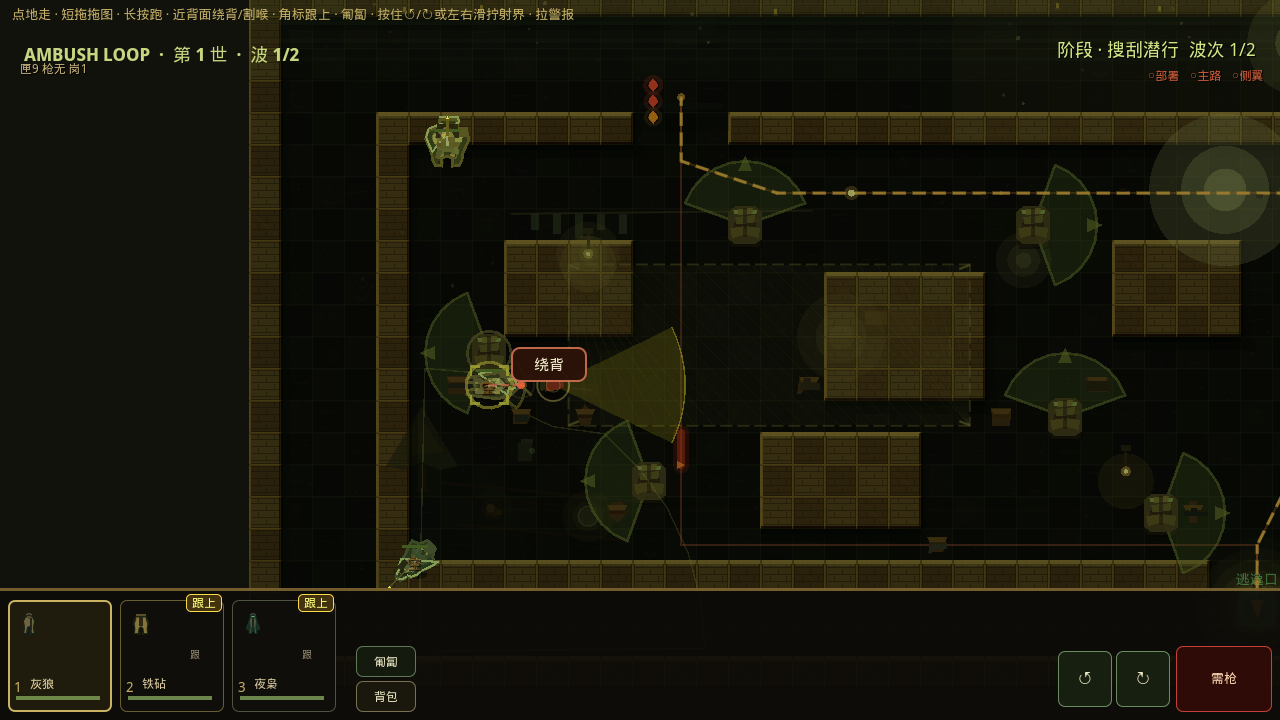
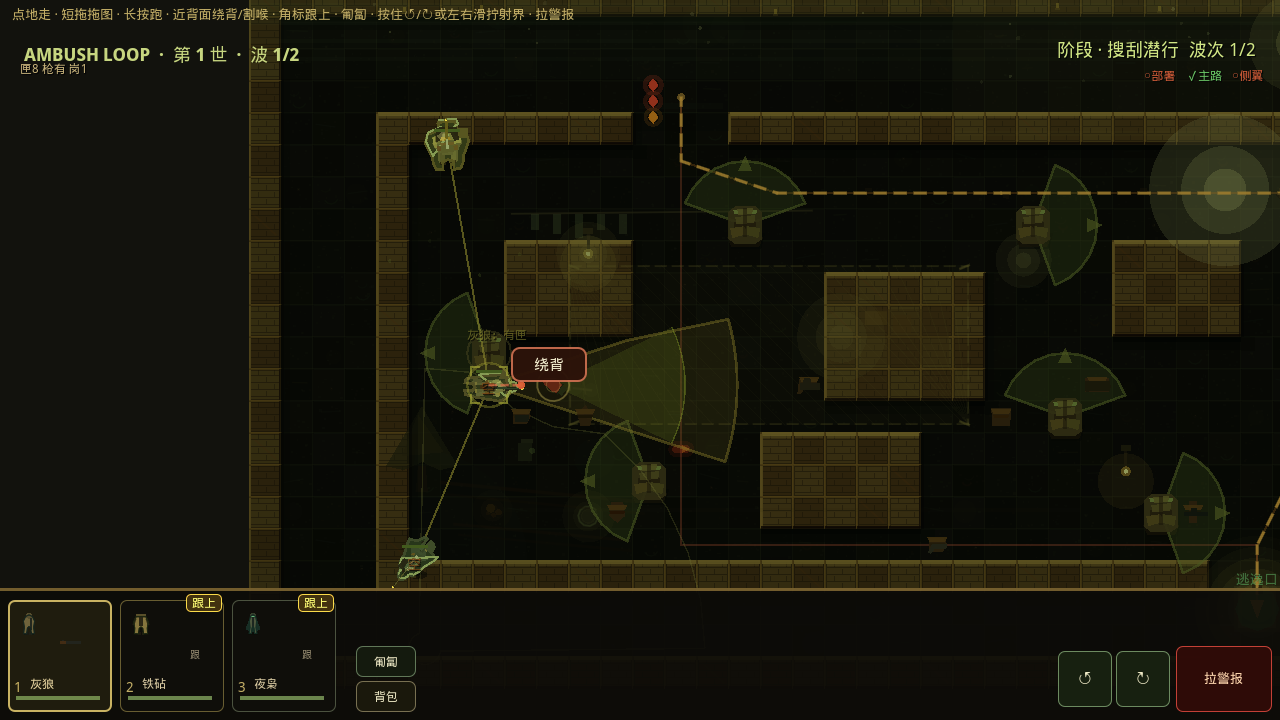
feat(engine): v0.5.41 west trio file tape, dest span 6 kept
Gold file through lead + dests so the west squad reads as one file at
1.0 zoom. Dest cells stay (7,12)/(6,6)/(5,16). No postage stamp.

Review: eval_touch_ux/08_west_combo_follow.png — tape links north
follower, lead, south follower. SMOKE_OK_WEST_FILE_0541 pts=3 len=434.5.

diff --git a/ambush_loop/docs/TOUCH_UX_OPTIONS.md b/ambush_loop/docs/TOUCH_UX_OPTIONS.md
@@ -1,6 +1,6 @@
 # Ambush Loop — 触控 UX 方案（制作人清单）
 
-版本：v0.5.40 已落地 观察环填色 LOS 裁切+淡化（1.0 人影/环，不改 kit_range）西巷落点(6,6)/(5,16) span 6 西巷跟上绕路≤6+跟镜头~1.0 平移/裁切（不把院子缩成邮票；#1 沿队形拉开、#2 不推南墙、不贴西墙）人影/观察环 1.0 / 观察环院内错开收小（不把 280px 环再推 154px 进院子） / 南走廊整段 y≤13（含中段 x≈21） / 松手留环+双向拧+西巷三人+黄锥强制触控 · 2026-09-18  
+版本：v0.5.41 已落地 西巷队形线（span 6 落点不改）观察环填色 LOS 裁切+淡化（1.0 人影/环，不改 kit_range）西巷落点(6,6)/(5,16) span 6 西巷跟上绕路≤6+跟镜头~1.0 平移/裁切（不把院子缩成邮票；#1 沿队形拉开、#2 不推南墙、不贴西墙）人影/观察环 1.0 / 观察环院内错开收小（不把 280px 环再推 154px 进院子） / 南走廊整段 y≤13（含中段 x≈21） / 松手留环+双向拧+西巷三人+黄锥强制触控 · 2026-09-18  
 对象：分支 `cursor/commandos-ambush-0641`，玩法停在 Commandos 2 kit（肖像 / C·Q·W·Z / 岗哨黄锥 / 6 格背包 / 自动手雷）。  
 P0 已进 `0.5.1`：SETUP 常驻 匍匐/背包/需枪，情境热区，肖像钉回拇指带，ALERT 3 键。  
 P0.5 已进 `0.5.2`：北墙芯片折进标题带；靠近背面出绕背热区+虚线；短拖拖图 / 长按奔跑；肖像「跟」。本文件仍是方案对照，不改 RAID 契约。`SCOUT → ALERT → SWEEP`、警报锁走位、自动开火 + 自动手雷，全部保留。

diff --git a/ambush_loop/docs/CHANGELOG.md b/ambush_loop/docs/CHANGELOG.md
@@ -1,5 +1,23 @@
 # Changelog
 
+## 0.5.41 — Engine: west trio file tape (span 6 kept)
+
+Sideload APK: `dist/AmbushLoop-v0.5.41-touch-slide.apk`  
+Release tag: `v0.5.41-touch-slide`
+
+Same RAID as 0.5.40. Dest cells stay lead (7,12) / (6,6) / (5,16) span 6. Follow camera ~1.0. A gold file tape through the dests is why the trio reads as one squad without postage-stamp zoom.
+
+### Play (phone)
+- **西巷队形线**: west follow draws a file through lead + dests, north to south. Dest span 6, detour ≤6, bodies 1.0, obs fill still the 0.5.40 LOS wash. No dest rethink this slice.
+- Forced-touch dump prints `file_pts` / `file_len`. 0541 pack is slim.
+
+### Android
+- `versionName` 0.5.41 / `versionCode` 47 (`com.ambushloop.game`).
+
+### How to tell you have this build
+1. Title **v0.5.41 COMMANDOS/WW2**.
+2. West alley **跟**: dests (7,12)/(6,6)/(5,16) plus a gold file tape linking them. Courtyard still not soaped. Camera ~1.0 pan/crop.
+
 ## 0.5.40 — Engine: obs ring fill fade/clip at 1.0
 
 Sideload APK: `dist/AmbushLoop-v0.5.40-touch-slide.apk`  
